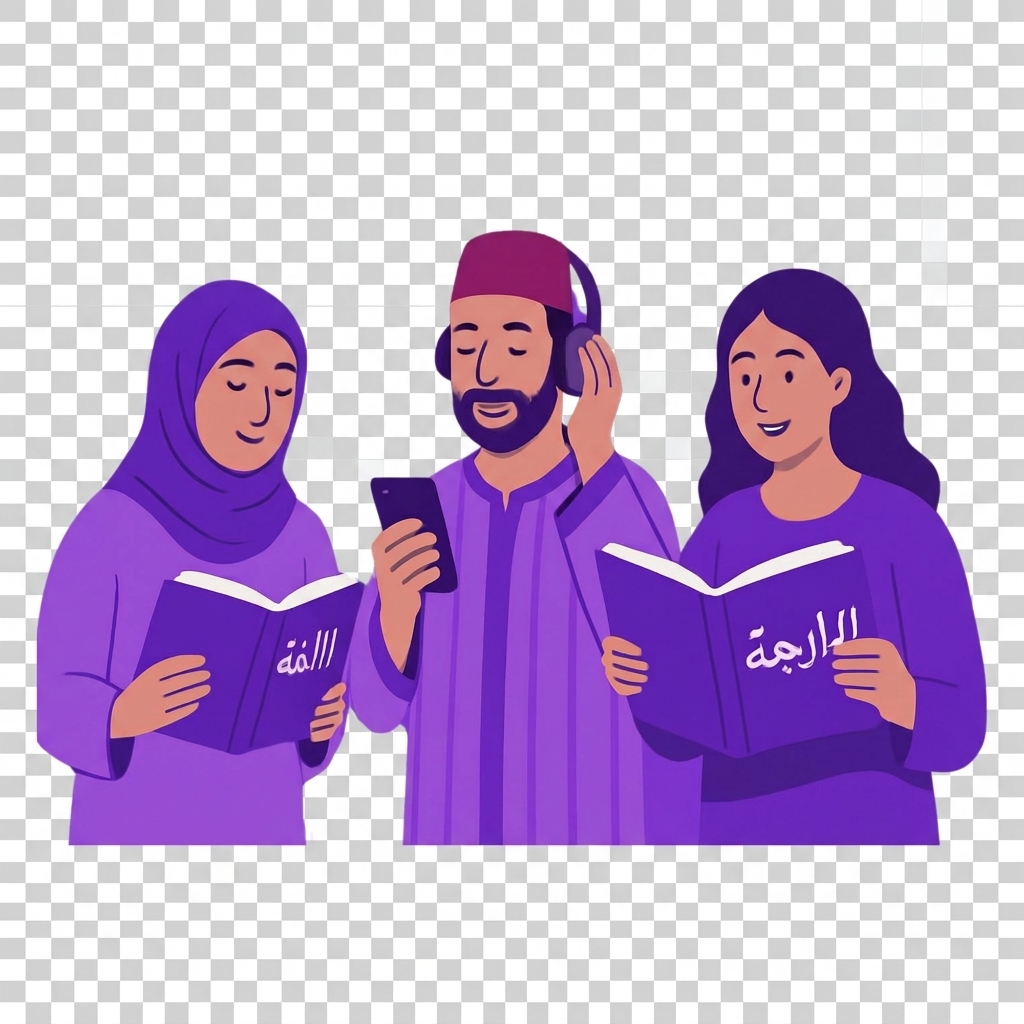
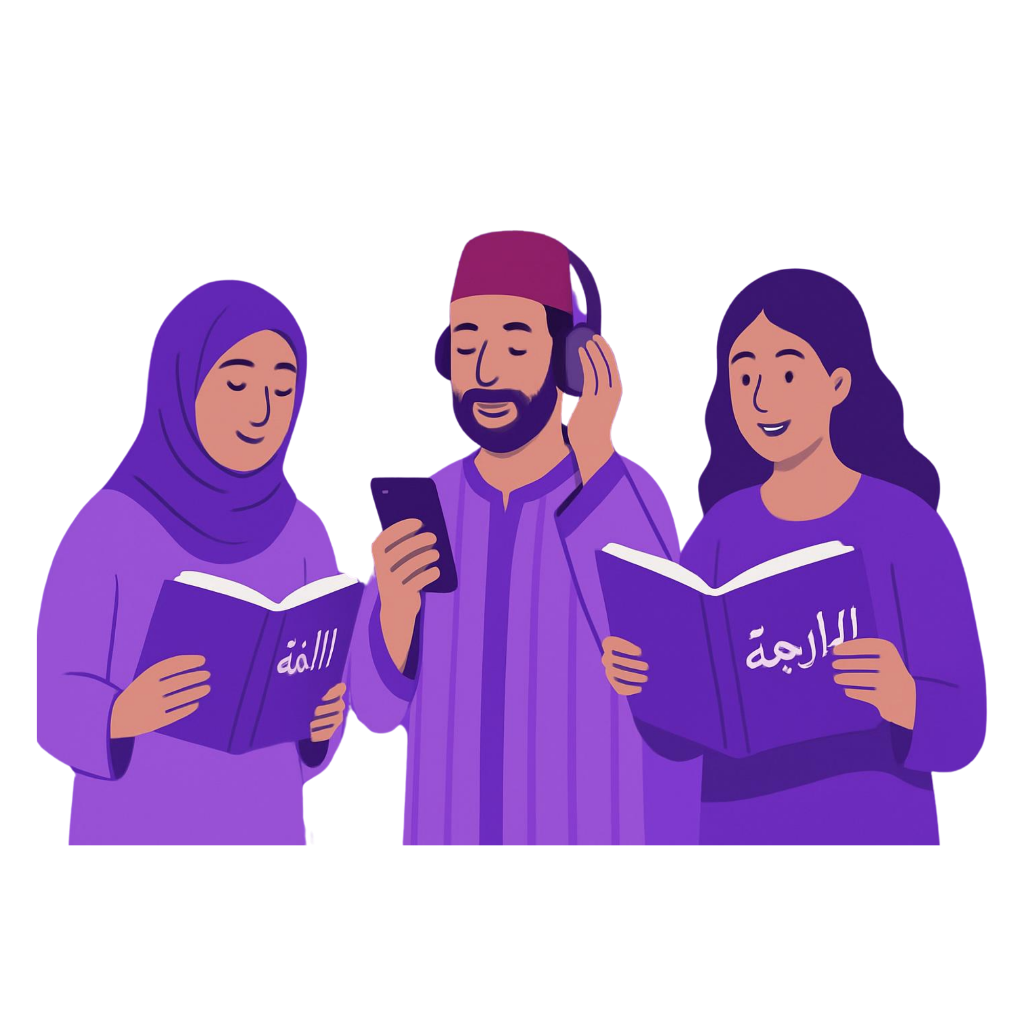
feat: add image processing utility to convert white backgrounds to transparent

diff --git a/scratch/process_image.html b/scratch/process_image.html
@@ -1,0 +1,40 @@
+<!DOCTYPE html>
+<html>
+<body>
+  <canvas id="canvas"></canvas>
+  <script>
+    async function processImage(src) {
+      return new Promise((resolve, reject) => {
+        const img = new Image();
+        img.crossOrigin = "anonymous";
+        img.onload = () => {
+          const canvas = document.getElementById('canvas');
+          const ctx = canvas.getContext('2d');
+          canvas.width = img.width;
+          canvas.height = img.height;
+          ctx.drawImage(img, 0, 0);
+          
+          const imageData = ctx.getImageData(0, 0, canvas.width, canvas.height);
+          const data = imageData.data;
+          
+          for (let i = 0; i < data.length; i += 4) {
+            const r = data[i];
+            const g = data[i + 1];
+            const b = data[i + 2];
+            
+            // If pixel is white or very close to white, make it transparent
+            if (r > 240 && g > 240 && b > 240) {
+              data[i + 3] = 0;
+            }
+          }
+          
+          ctx.putImageData(imageData, 0, 0);
+          resolve(canvas.toDataURL('image/png'));
+        };
+        img.onerror = reject;
+        img.src = src;
+      });
+    }
+  </script>
+</body>
+</html>